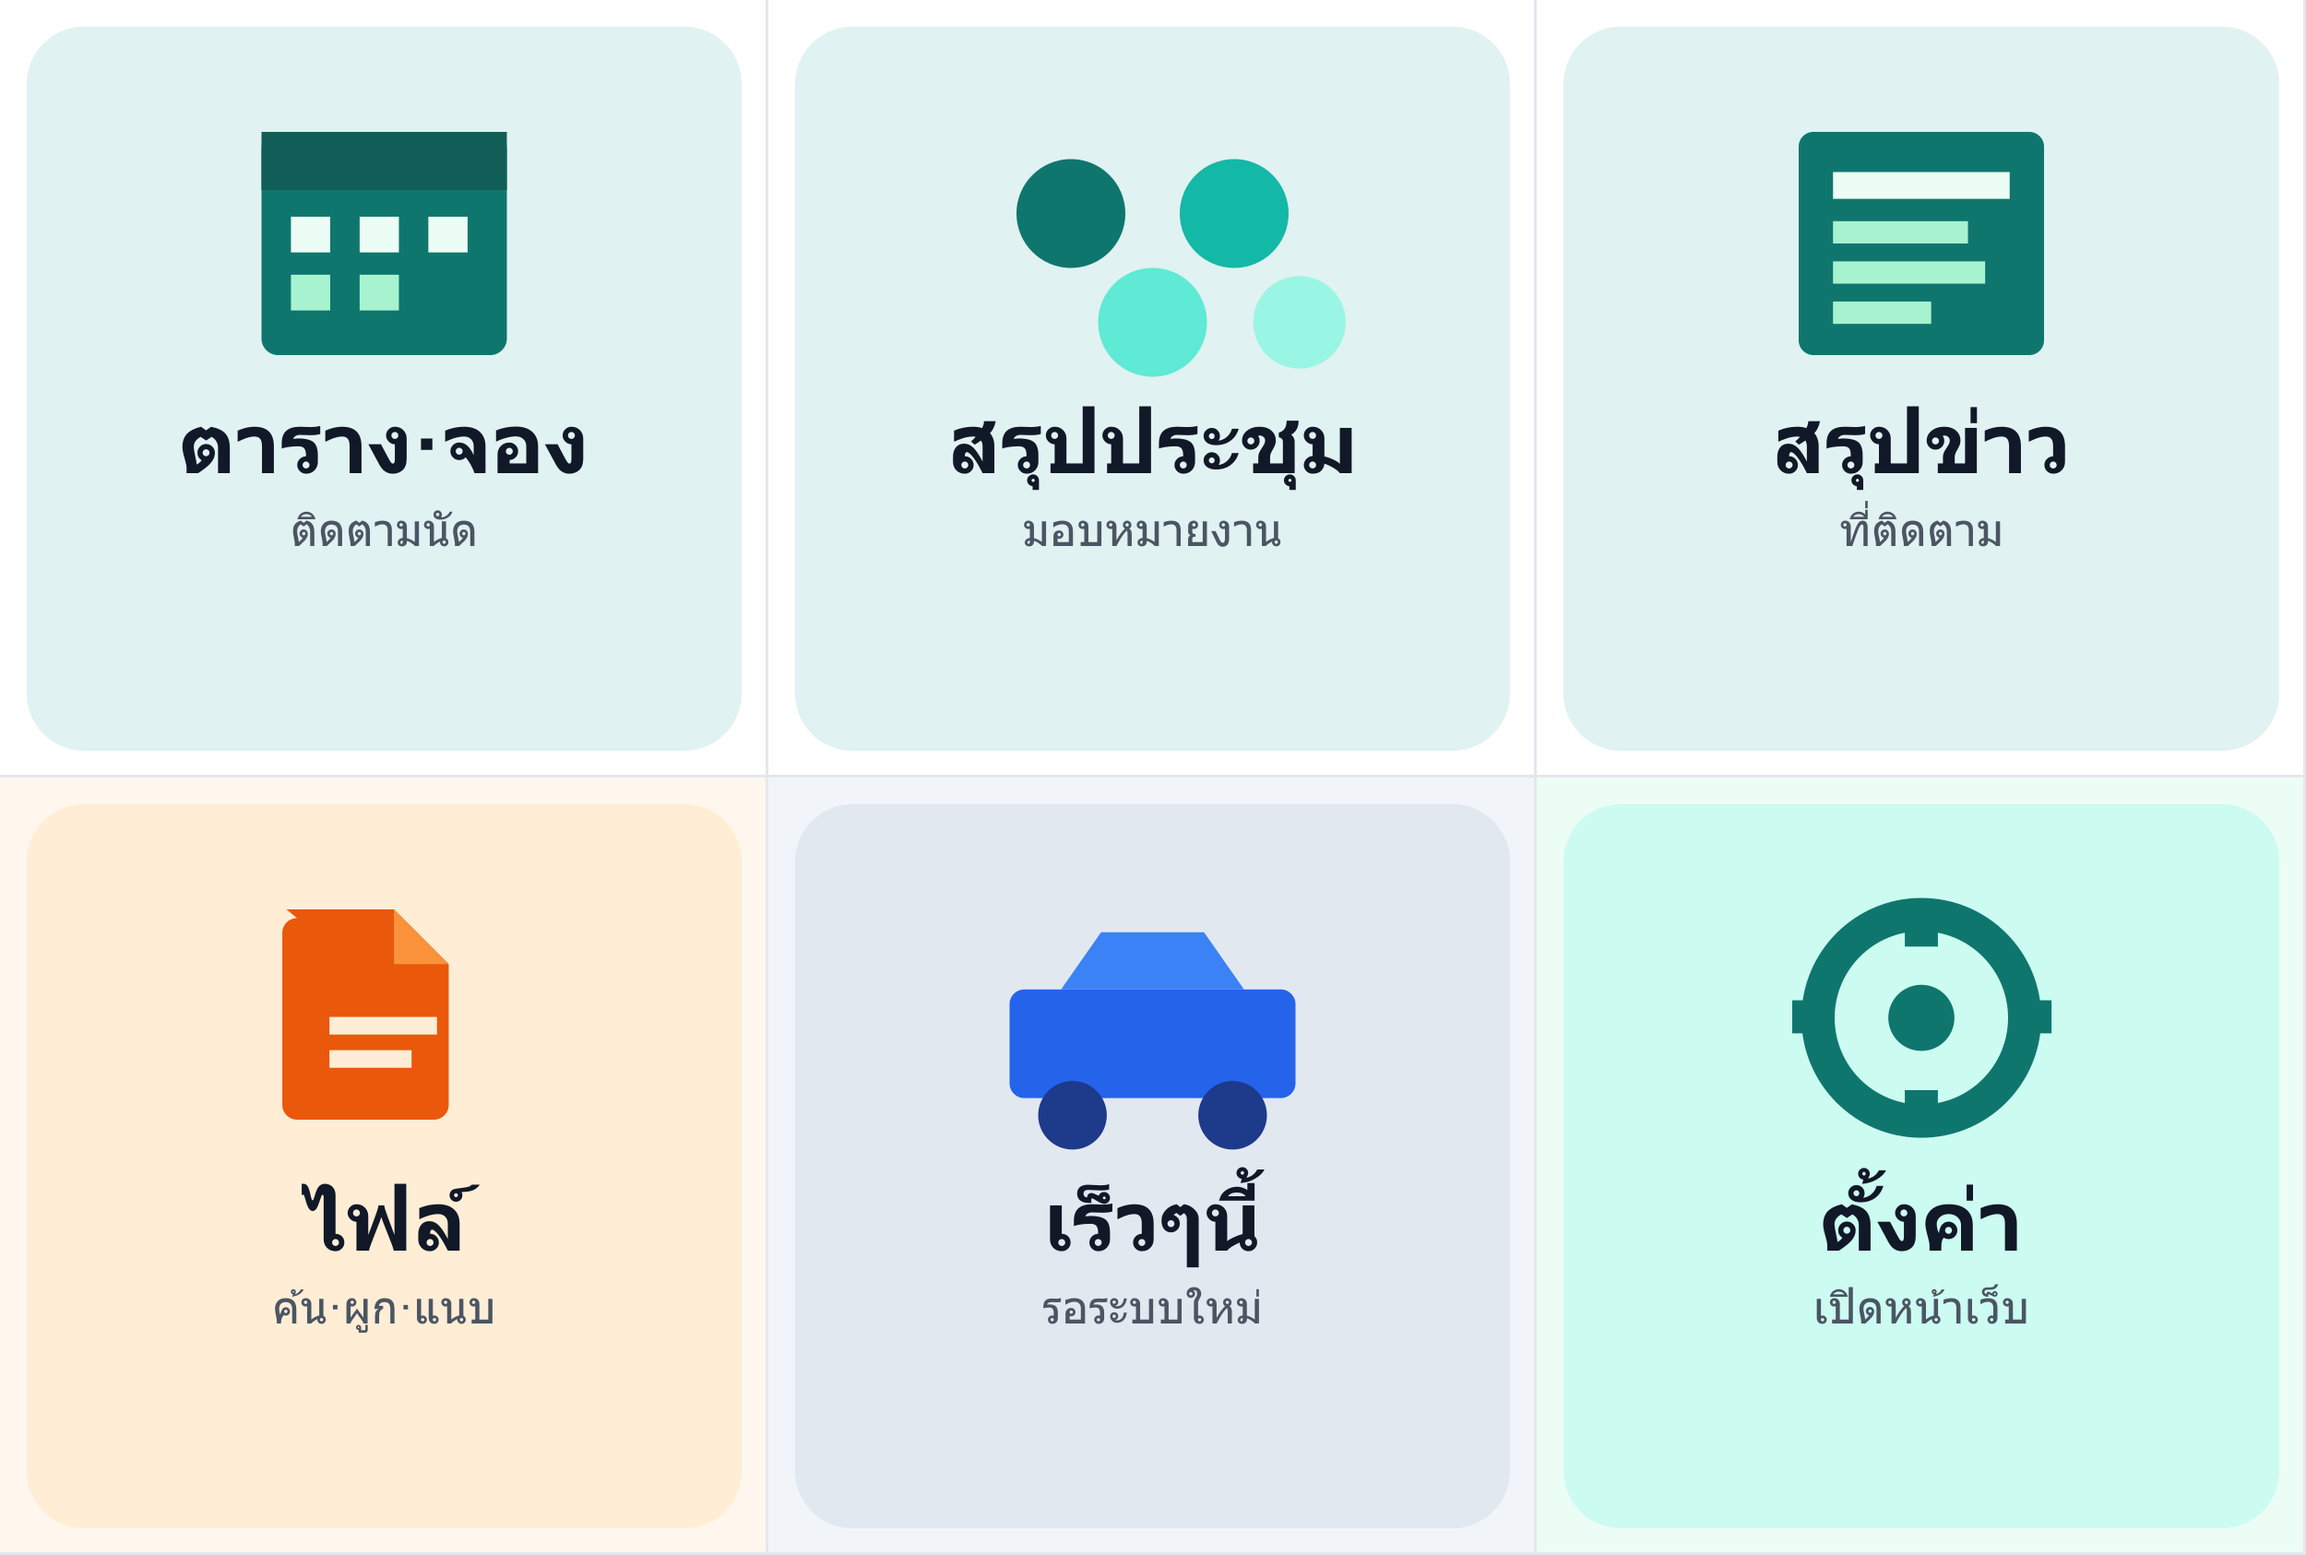
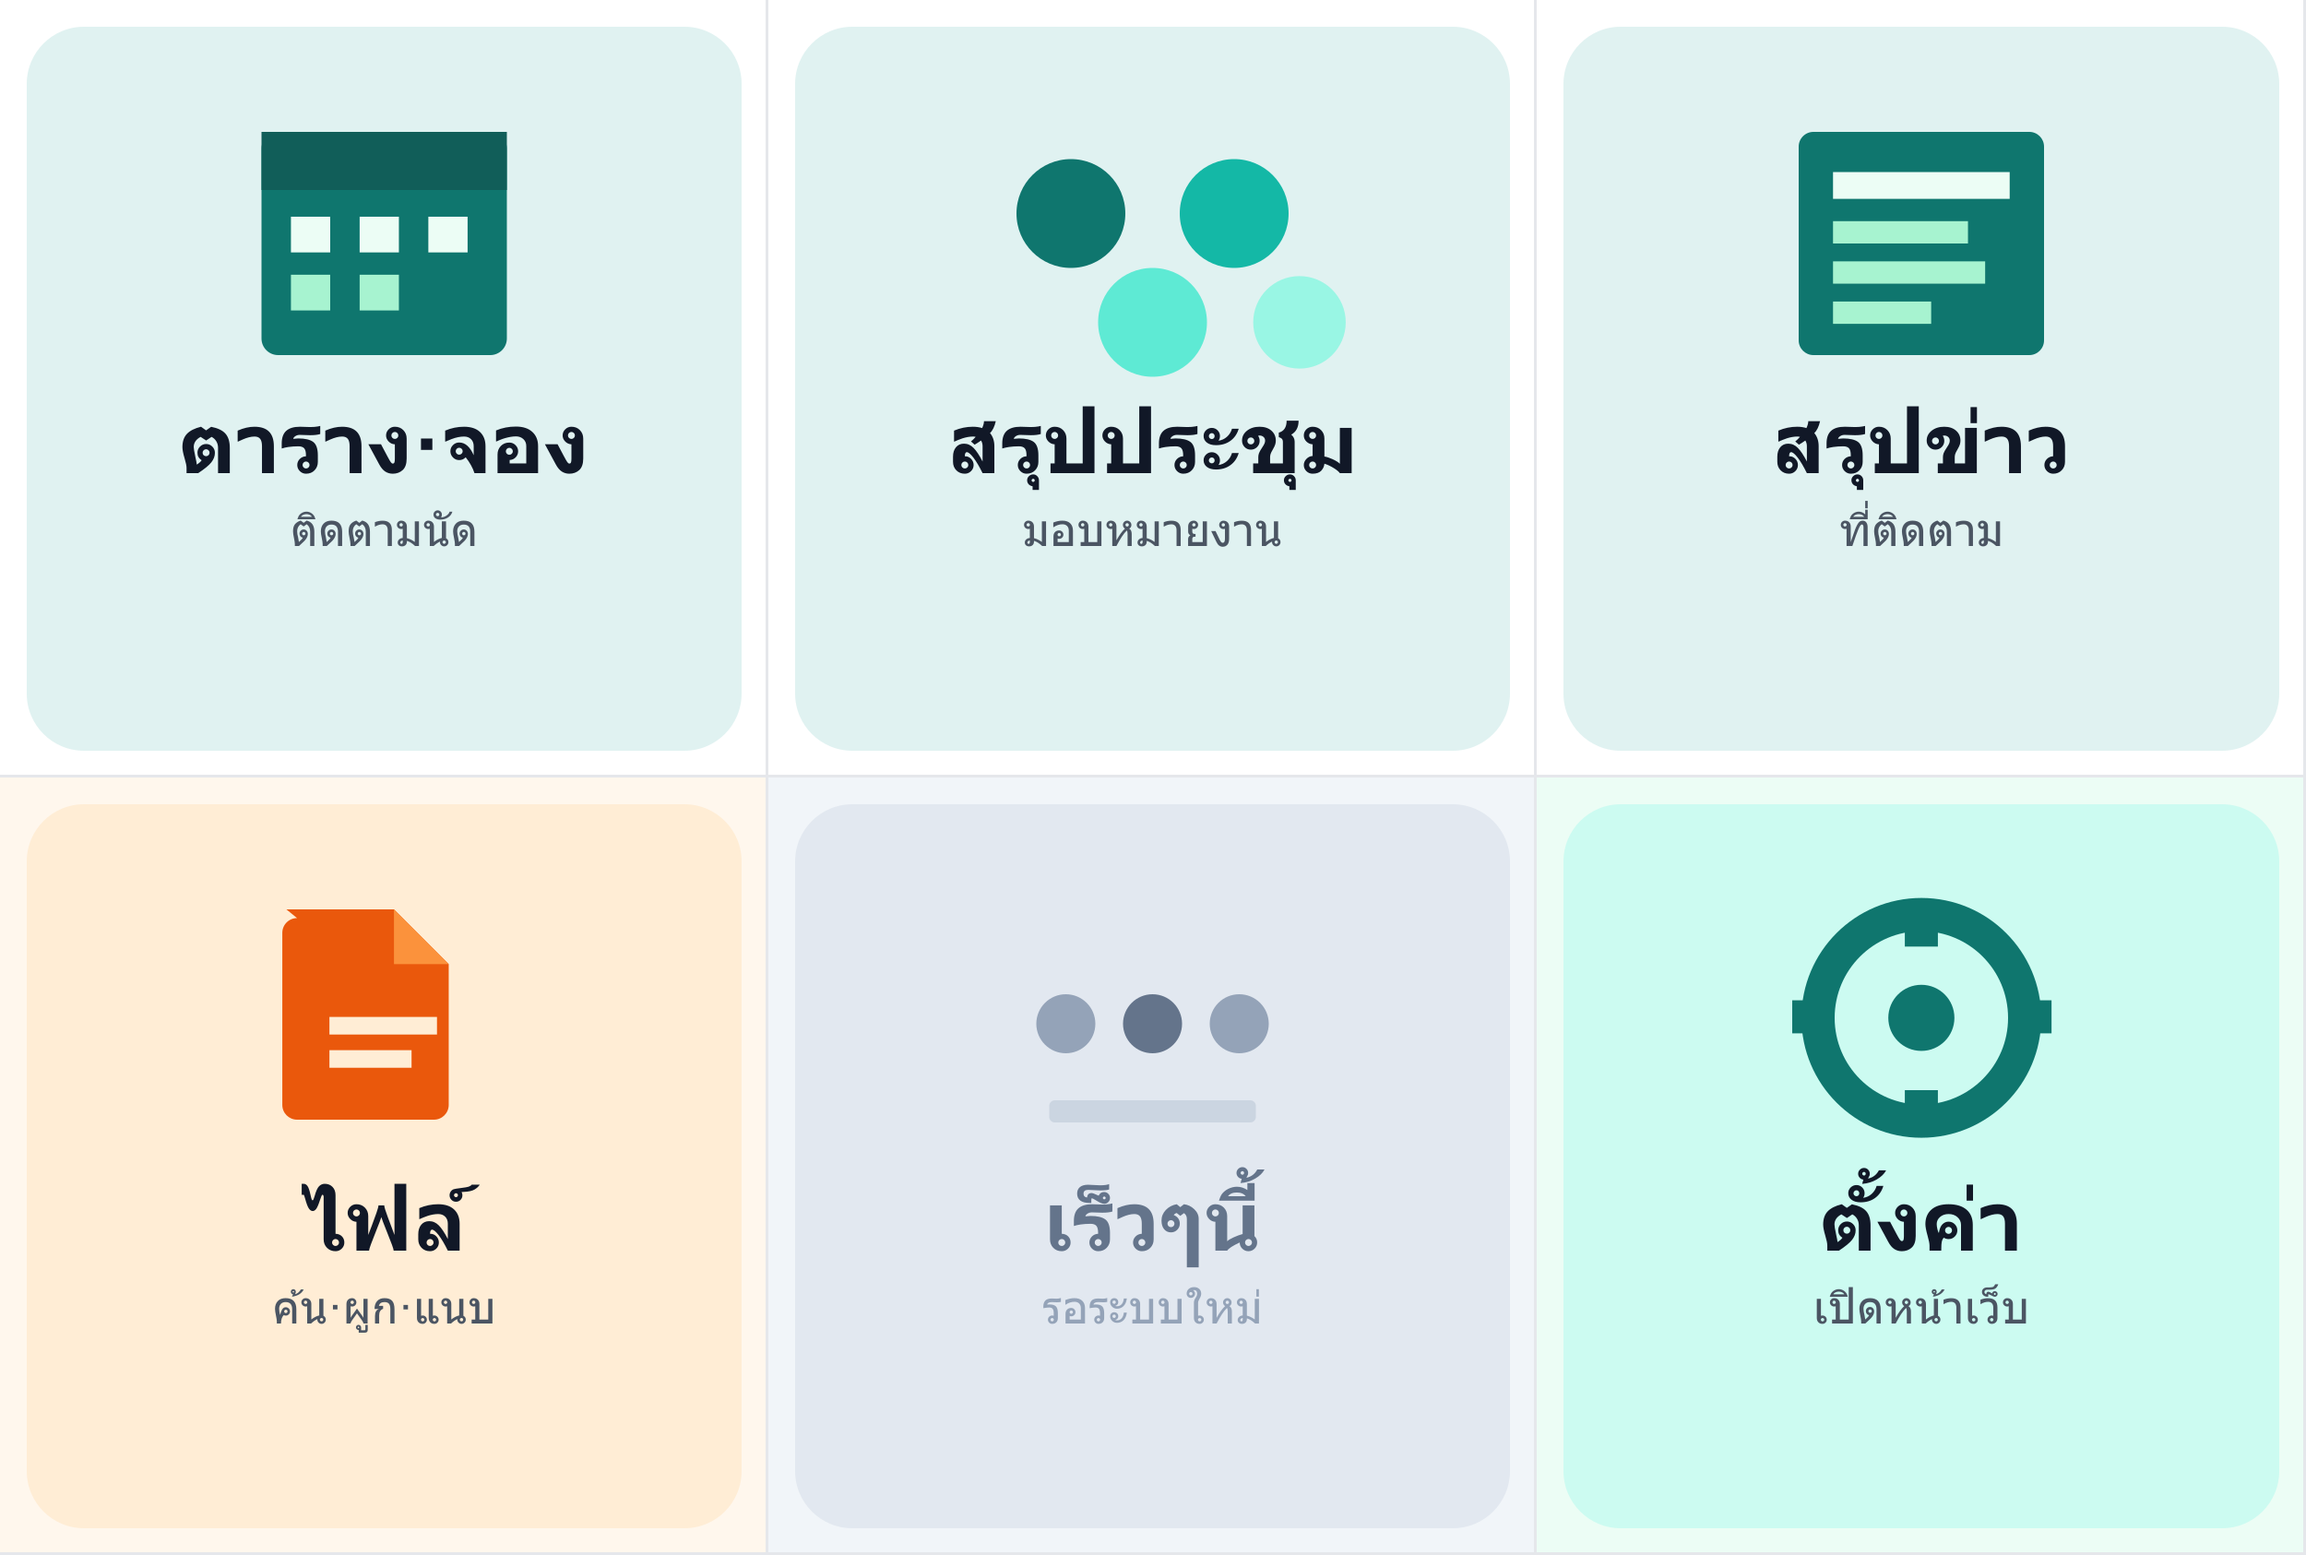
Gray out Coming Soon rich-menu cell and replace the car with muted dots.

Changed region(s): [[0.4368, 0.586, 0.5616, 0.8636]]

diff --git a/lib/lineRichMenu.ts b/lib/lineRichMenu.ts
@@ -1,7 +1,7 @@
 // LINE Rich Menu — 2×3 layout matching rich-menu-preview.html (draft B).
 // Note: do NOT import sharp at top-level — webhook imports this module on every message.
 
-export const RICH_MENU_NAME = "ktis-main-v5-full";
+export const RICH_MENU_NAME = "ktis-main-v5b-full";
 
 /** Strip invisible chars LINE sometimes appends (ZWSP etc.) so menu taps match. */
 export function sanitizeMenuText(text: string): string {
@@ -73,7 +73,7 @@ function cellSvg(
   h: number,
   bg: string,
   iconBg: string,
-  iconKind: "cal" | "meet" | "news" | "file" | "car" | "gear",
+  iconKind: "cal" | "meet" | "news" | "file" | "car" | "soon" | "gear",
   title: string,
   sub: string
 ): string {
@@ -135,6 +135,15 @@ function cellSvg(
       <path d="M${cx - iw * 0.32} ${iy + iw * 0.28} l${iw * 0.14} ${-iw * 0.2} h${iw * 0.36} l${iw * 0.14} ${iw * 0.2}" fill="#3b82f6"/>
       <circle cx="${cx - iw * 0.28}" cy="${iy + iw * 0.72}" r="${iw * 0.12}" fill="#1e3a8a"/>
       <circle cx="${cx + iw * 0.28}" cy="${iy + iw * 0.72}" r="${iw * 0.12}" fill="#1e3a8a"/>`;
+  } else if (iconKind === "soon") {
+    // Muted ellipsis — “coming soon”, no car
+    const r = Math.round(glyph * 0.11);
+    const cy = iy + Math.round(glyph * 0.42);
+    const gap = Math.round(glyph * 0.32);
+    icon = `<circle cx="${cx - gap}" cy="${cy}" r="${r}" fill="#94a3b8"/>
+      <circle cx="${cx}" cy="${cy}" r="${r}" fill="#64748b"/>
+      <circle cx="${cx + gap}" cy="${cy}" r="${r}" fill="#94a3b8"/>
+      <rect x="${cx - Math.round(glyph * 0.38)}" y="${cy + Math.round(glyph * 0.28)}" width="${Math.round(glyph * 0.76)}" height="${Math.round(glyph * 0.08)}" rx="6" fill="#cbd5e1"/>`;
   } else {
     const r = Math.round(glyph * 0.38);
     icon = `<circle cx="${cx}" cy="${iy + r * 1.05}" r="${r}" fill="none" stroke="#0f766e" stroke-width="${Math.round(r * 0.32)}"/>
@@ -150,8 +159,8 @@ function cellSvg(
   <rect x="${x}" y="${y + h - 3}" width="${w}" height="3" fill="#e5e7eb"/>
   <rect x="${panelX}" y="${panelY}" width="${panelW}" height="${panelH}" rx="${panelRx}" fill="${iconBg}"/>
   ${icon}
-  <text x="${cx}" y="${titleY}" text-anchor="middle" font-size="${titleSize}" font-weight="700" fill="#111827" font-family="NotoThai, DejaVu Sans, Arial, sans-serif">${title}</text>
-  <text x="${cx}" y="${subY}" text-anchor="middle" font-size="${subSize}" fill="#4b5563" font-family="NotoThai, DejaVu Sans, Arial, sans-serif">${sub}</text>`;
+  <text x="${cx}" y="${titleY}" text-anchor="middle" font-size="${titleSize}" font-weight="700" fill="${iconKind === "soon" ? "#64748b" : "#111827"}" font-family="NotoThai, DejaVu Sans, Arial, sans-serif">${title}</text>
+  <text x="${cx}" y="${subY}" text-anchor="middle" font-size="${subSize}" fill="${iconKind === "soon" ? "#94a3b8" : "#4b5563"}" font-family="NotoThai, DejaVu Sans, Arial, sans-serif">${sub}</text>`;
 }
 
 /** PNG buffer for LINE rich menu upload (≤1MB, 2500×1686 full). */
@@ -208,7 +217,7 @@ export async function buildRichMenuPng(opts?: { force?: boolean }): Promise<Buff
   ${cellSvg(COL, 0, COL, ROW, "#ffffff", "#e0f2f1", "meet", "สรุปประชุม", "มอบหมายงาน")}
   ${cellSvg(COL * 2, 0, COL3, ROW, "#ffffff", "#e0f2f1", "news", "สรุปข่าว", "ที่ติดตาม")}
   ${cellSvg(0, ROW, COL, ROW2, "#fff7ed", "#ffedd5", "file", "ไฟล์", "ค้น·ผูก·แนบ")}
-  ${cellSvg(COL, ROW, COL, ROW2, "#f1f5f9", "#e2e8f0", "car", "เร็วๆนี้", "รอระบบใหม่")}
+  ${cellSvg(COL, ROW, COL, ROW2, "#f1f5f9", "#e2e8f0", "soon", "เร็วๆนี้", "รอระบบใหม่")}
   ${cellSvg(COL * 2, ROW, COL3, ROW2, "#ecfdf5", "#ccfbf1", "gear", "ตั้งค่า", "เปิดหน้าเว็บ")}
 </svg>`;
   const png = await sharp(Buffer.from(svg)).png({ compressionLevel: 9 }).toBuffer();
